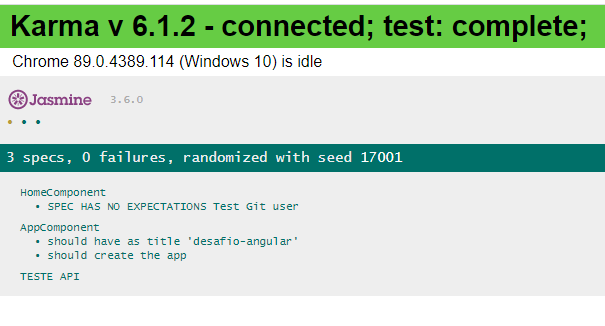
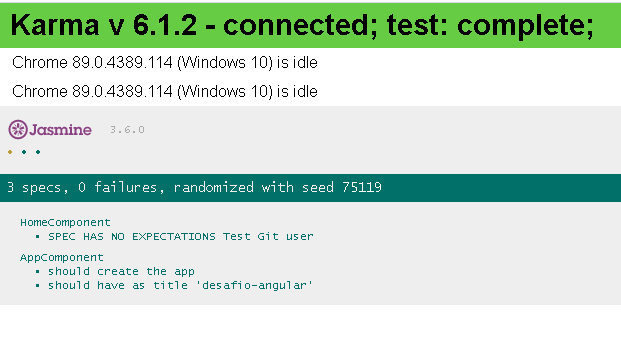
Removida chamada de teste não executado

diff --git a/src/app/home/home.component.spec.ts b/src/app/home/home.component.spec.ts
@@ -29,13 +29,13 @@ describe('HomeComponent', () => {
     fixture.detectChanges();
   });
 
- 
+
 });
 */
 
-describe('TESTE API', () => {
-  //TO DO testes de chamada de api 
-});
+//describe('TESTE API', () => {
+  //TO DO testes de chamada de api
+//});
 
 describe('HomeComponent', () => {
   beforeEach(async () => {
@@ -58,11 +58,11 @@ describe('HomeComponent', () => {
     const fixture = TestBed.createComponent(HomeComponent);
     const app = fixture.componentInstance;
     const user = app.service.getUser('mouragilvan');
-    user.subscribe(success => {     
+    user.subscribe(success => {
       //Se colocar outro valor, vai estourar o erro
       expect(success?.name).toEqual('Gilvan Moura');
     })
-    done();    
+    done();
   });
 });
 
